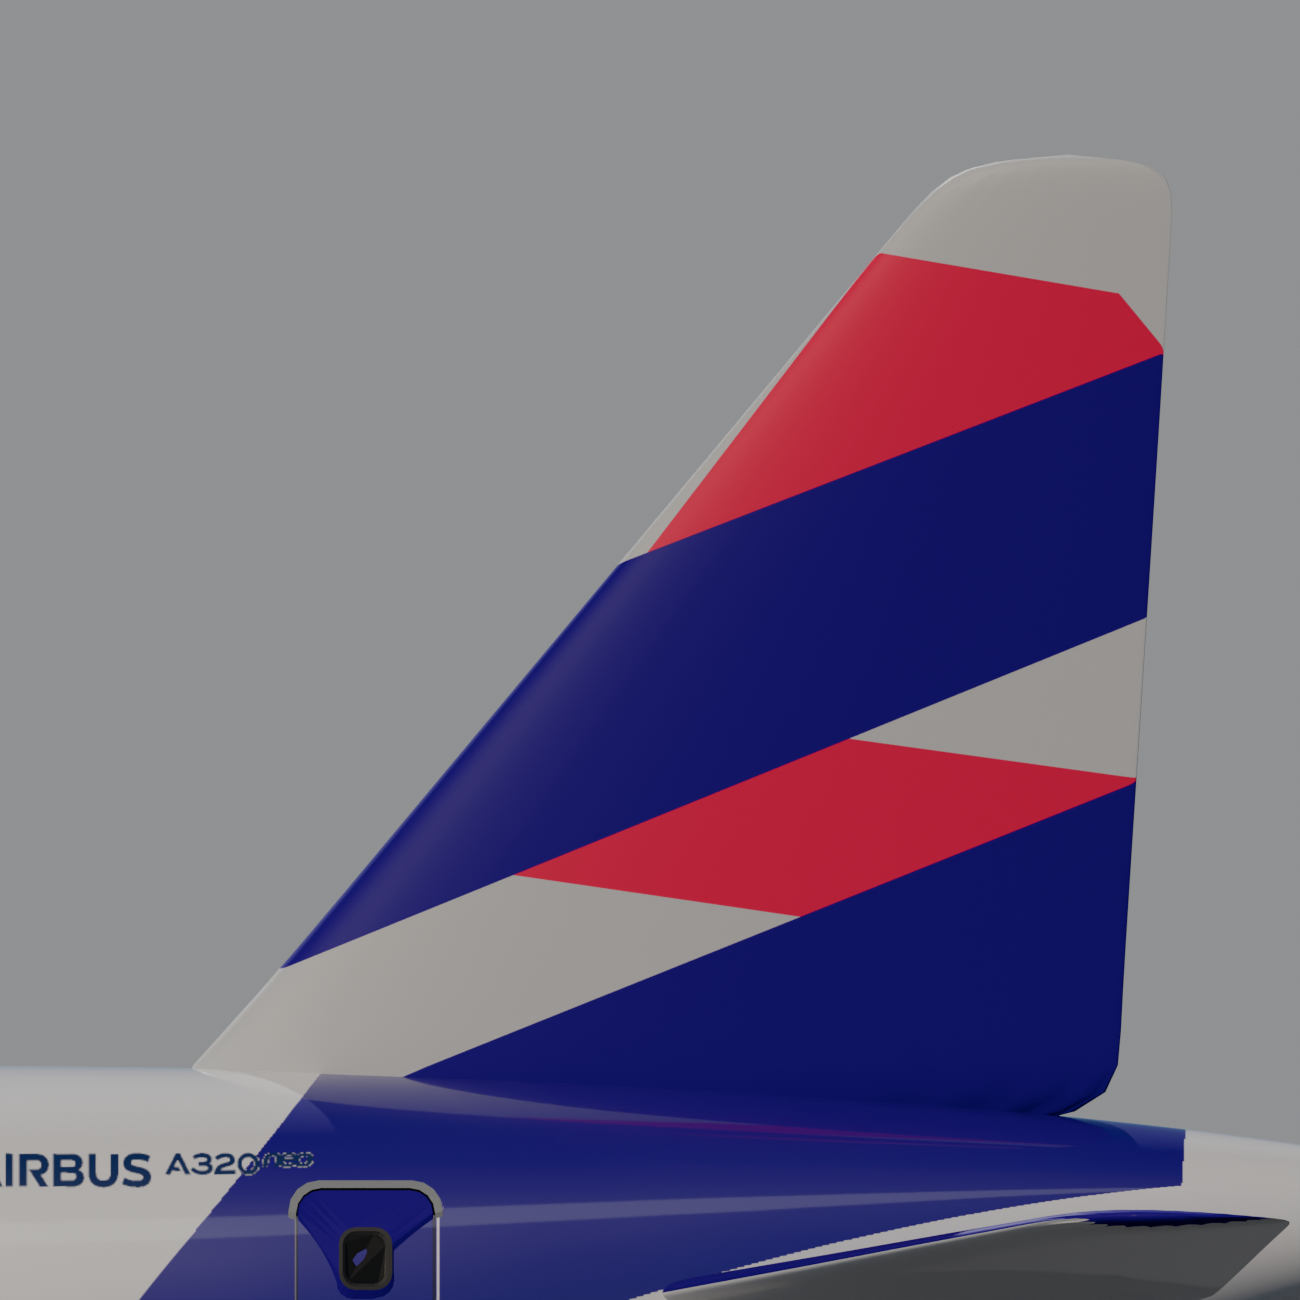
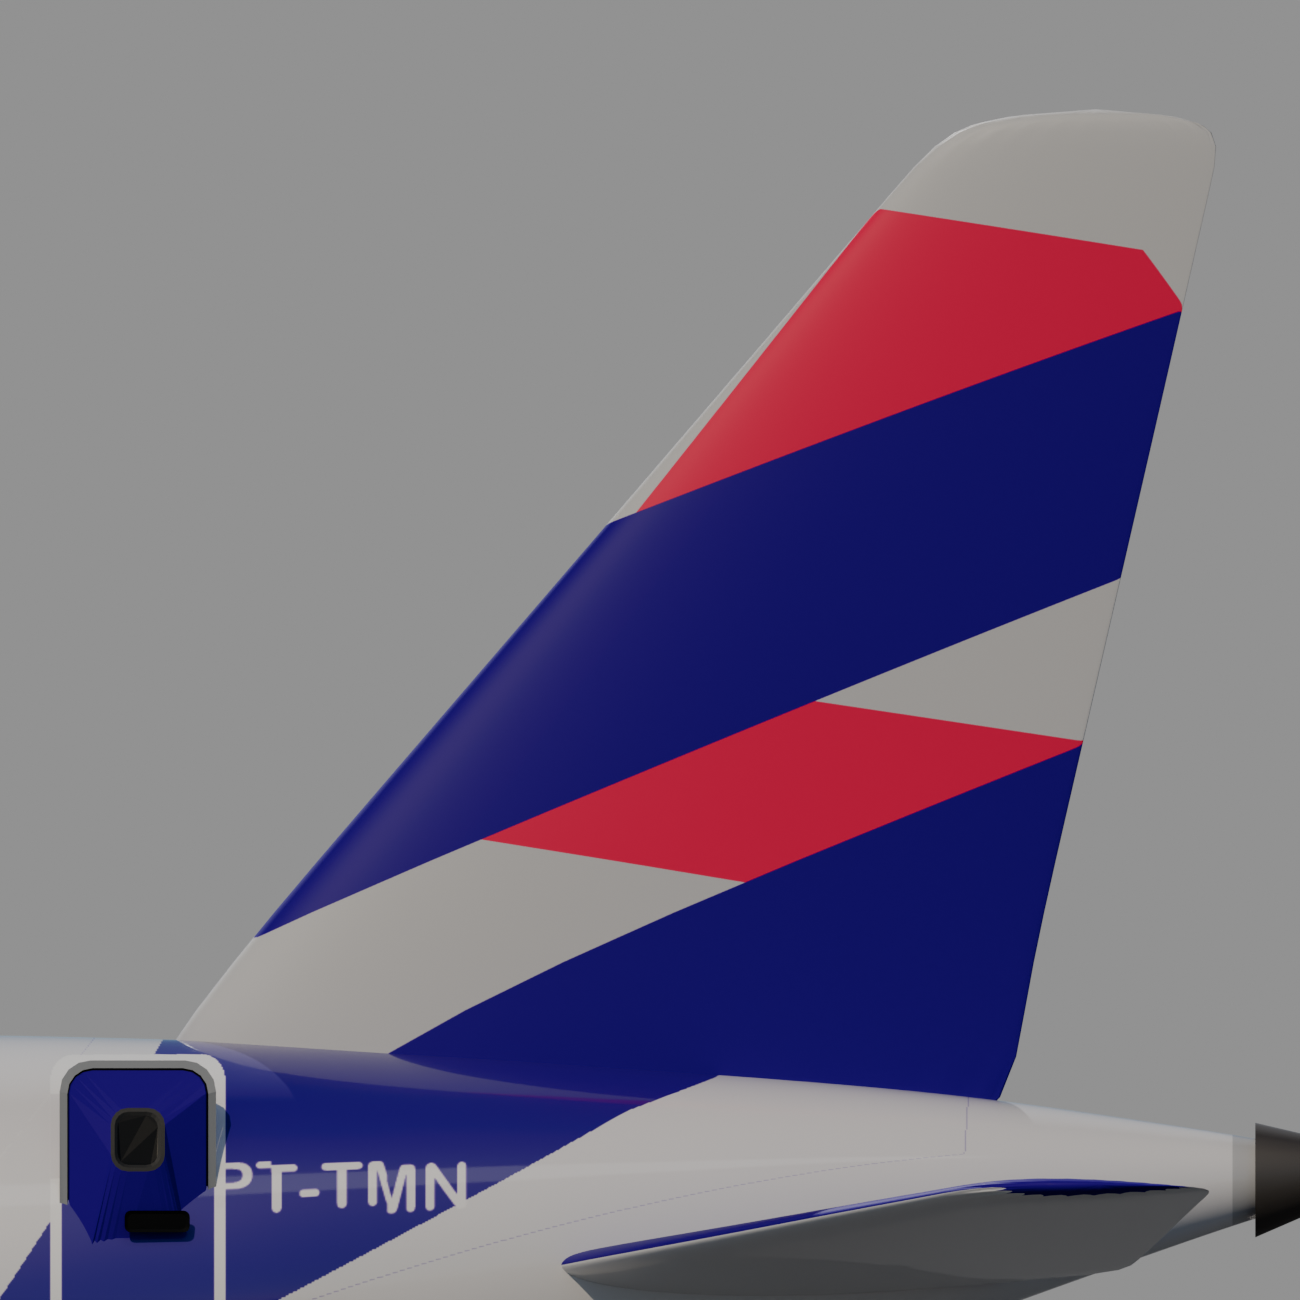
The fin panel gets a generator, and the three stale ones are re-shot
Three `render_fin_ortho.png` sat in the tree showing geometry the fleet no
longer had. They were made ad hoc in the 2026-08-20 sash round — nothing in the
repository produces them, nothing references them — and the ACAP empennage round
of 2026-08-21 moved the fins out from under them with no way to refresh.

REGENERATED RATHER THAN DELETED, for three reasons.

The panel is the only frame the sash can be checked in. The band edges are
specified as CROSSINGS (`spec_*.json -> fin_bandas_2026-08-20`): fractions of
the exposed fin at which each edge cuts the LE, the TE and the root. Checking
one means measuring a length ALONG an edge, which needs an elevation in the same
(x, z) domain the texture is rasterized in. The seven gate angles are perspective
cameras at 90-250 m; CamCauda is the closest and it still foreshortens the fin
and rakes the root. Deleting the panels would delete the evidence for the round
that produced them, three weeks after `0da5329` deleted the other half of that
evidence — the photo comparison sheets, which had to go for licensing.

`spec_77w.json` already cites the 777's copy by name as the model-only panel
that stands in for the sheet it may not ship. Three of the four aircraft that
have this panel were carrying an uncitable version of it.

And staleness is the argument FOR a script, not against the artifact. These went
stale precisely because they had no generator; the merge that staled them is the
[…]

Changed region(s): [[0.0, 0.1538, 1.0, 1.0], [0.1538, 0.7385, 0.1846, 0.7692]]

diff --git a/render_fin_ortho.py b/render_fin_ortho.py
@@ -1,0 +1,170 @@
+#!/usr/bin/env python3
+"""Orthographic elevation of the fin — the frame the sash artwork is judged in.
+
+    /Applications/Blender.app/Contents/MacOS/Blender -b "<aircraft>/<X>.blend" \
+        --python render_fin_ortho.py -- [px] [samples]
+
+Writes `render_fin_ortho.png` next to the .blend. Like `render_gate.py`, the
+camera is built in memory and the master is NEVER saved, so the panel can be
+re-shot while another session edits the aircraft.
+
+------------------------------------------------------------------------------
+WHY THIS EXISTS
+------------------------------------------------------------------------------
+The fin sash is specified as CROSSINGS: fractions of the exposed fin at which
+each band edge cuts the leading edge, the trailing edge and the root (see
+`spec_*.json` -> `fin_bandas_2026-08-20`, and the "per-type fin" section of the
+livery-latam skill). Reading a crossing off a render means measuring a length
+along the LE against the LE's full length — which only works in an elevation of
+the fin, in the same (x, z) domain the texture is rasterized in.
+
+None of the seven canonical gate angles is that. They are perspective cameras
+at 90-250 m aimed at the whole aircraft; CamCauda is the closest and it still
+foreshortens the fin and rakes the root. So the fin panel is a separate shot,
+and `spec_77w.json` already cites the 777's copy by name as the model-only
+evidence for its sash conference.
+
+Three of these panels (A319, A320neo, A321neo) were made by a scratchpad script
+in the 2026-08-20 sash round and committed without it. The ACAP empennage round
+of 2026-08-21 moved two of those fins and raised the doors under all three, and
+there was nothing in the repository to re-shoot them with — so they sat in the
+tree showing geometry the fleet no longer had. That is the whole reason this
+file is here rather than in a scratchpad: the panel is only evidence for as long
+as it can be refreshed by whatever moves the geometry.
+
+------------------------------------------------------------------------------
+THE FRAME
+------------------------------------------------------------------------------
+Orthographic, square, PORT side: the camera sits far out on -Y looking towards
++Y, so world +X (aft) runs to the right and the panel shows `Deriva_Sash_E` —
+the same side as CamPerfil and as the reference photographs the bands were
+measured on.
+
+The frame is derived from the fin's own world bounding box, so every type is
+shot the same way and two types can be laid side by side:
+
+    S  = MARGEM x max(fin span in x, fin span in z)     square, metres
+    c  = centre of the fin bounding box
+
+MARGEM leaves a little air around the tip and the trailing edge and pulls in the
+hull under the root — the fin-root fillet and the écharpe boundary are part of
+what the sash has to line up with, so the junction belongs in the frame.
+
+Nothing here is read from the .blend's own cameras: an elevation has no
+photographic distance to preserve, and the whole point is that the frame follows
+the fin. Move the fin and the panel re-centres on it.
+
+BACKGROUND. The master's world is a sky texture, which tints white paint. The
+panel swaps a flat neutral grey in front of CAMERA rays only (Light Path ->
+Is Camera Ray); every other ray still sees the master's sky, so the lighting is
+the master's lighting and only the backdrop changes. The grey matches the one
+the 2026-08-20 panels were shot against, so old and new sheets compare.
+"""
+import math
+import os
+import sys
+
+import bpy
+from mathutils import Vector
+
+# ---------------------------------------------------------------- constantes
+
+FIN = "Deriva"          # fleet-wide name of the fin mesh
+MARGEM = 1.12           # frame side, x the fin's largest span
+FUNDO = 0.58            # flat backdrop, linear; renders to sRGB 146 under AgX
+SAIDA = "render_fin_ortho.png"
+
+
+def _caixa(ob):
+    return [ob.matrix_world @ Vector(c) for c in ob.bound_box]
+
+
+def enquadrar(scene=None):
+    """Frame the fin: returns (centro, lado) in metres."""
+    scene = scene or bpy.context.scene
+    bpy.context.view_layer.update()      # matrix_world fresca, senao mente
+    fin = bpy.data.objects.get(FIN)
+    if fin is None or fin.type != "MESH":
+        raise RuntimeError("fin mesh '%s' not found in %s"
+                           % (FIN, os.path.basename(bpy.data.filepath)))
+    b = _caixa(fin)
+    x0, x1 = min(p.x for p in b), max(p.x for p in b)
+    z0, z1 = min(p.z for p in b), max(p.z for p in b)
+    y0 = min(p.y for p in b)
+    lado = MARGEM * max(x1 - x0, z1 - z0)
+    centro = Vector(((x0 + x1) / 2.0, y0, (z0 + z1) / 2.0))
+    return centro, lado, (x0, x1, z0, z1)
+
+
+def _fundo_liso(scene):
+    """Flat grey for camera rays; the master's sky still lights the aircraft."""
+    world = scene.world
+    if world is None or not world.use_nodes:
+        return
+    nt = world.node_tree
+    saida = next((n for n in nt.nodes if n.type == "OUTPUT_WORLD"), None)
+    if saida is None or not saida.inputs["Surface"].links:
+        return
+    ceu = saida.inputs["Surface"].links[0].from_socket
+
+    plano = nt.nodes.new("ShaderNodeBackground")
+    plano.inputs["Color"].default_value = (FUNDO, FUNDO, FUNDO, 1.0)
+    plano.inputs["Strength"].default_value = 1.0
+    caminho = nt.nodes.new("ShaderNodeLightPath")
+    mistura = nt.nodes.new("ShaderNodeMixShader")
+    nt.links.new(mistura.inputs["Fac"], caminho.outputs["Is Camera Ray"])
+    nt.links.new(mistura.inputs[1], ceu)             # Fac 0: todo o resto
+    nt.links.new(mistura.inputs[2], plano.outputs["Background"])   # Fac 1: camera
+    nt.links.new(saida.inputs["Surface"], mistura.outputs["Shader"])
+
+
+def renderizar(pasta=None, px=1300, amostras=96, scene=None):
+    scene = scene or bpy.context.scene
+    pasta = pasta or os.path.dirname(os.path.abspath(bpy.data.filepath))
+    centro, lado, cx = enquadrar(scene)
+
+    cam_ob = bpy.data.objects.get("CamFinOrtho")
+    if cam_ob is None or cam_ob.type != "CAMERA":
+        cam_ob = bpy.data.objects.new("CamFinOrtho", bpy.data.cameras.new("CamFinOrtho"))
+        scene.collection.objects.link(cam_ob)
+    cam_ob.parent = None
+    cam = cam_ob.data
+    cam.type = "ORTHO"
+    cam.ortho_scale = lado
+    cam.shift_x = 0.0
+    cam.shift_y = 0.0
+    cam.clip_start = 0.1
+    cam.clip_end = 4000.0
+    cam.dof.use_dof = False
+    # 200 m out on -Y, looking towards +Y with world +Z up: an elevation has no
+    # distance of its own, so the standoff only has to clear the aircraft.
+    cam_ob.location = Vector((centro.x, centro.y - 200.0, centro.z))
+    cam_ob.rotation_euler = (math.pi / 2.0, 0.0, 0.0)
+    for c in list(cam_ob.constraints):
+        cam_ob.constraints.remove(c)
+
+    _fundo_liso(scene)
+
+    scene.camera = cam_ob
+    scene.render.resolution_x = px
+    scene.render.resolution_y = px
+    scene.render.resolution_percentage = 100
+    scene.render.engine = "CYCLES"
+    if hasattr(scene, "cycles"):
+        scene.cycles.samples = amostras
+        scene.cycles.use_denoising = True
+    scene.render.image_settings.file_format = "PNG"
+    scene.render.filepath = os.path.join(pasta, SAIDA)
+
+    print("[fin] %s  fin x %.3f..%.3f  z %.3f..%.3f" %
+          (os.path.basename(bpy.data.filepath), cx[0], cx[1], cx[2], cx[3]))
+    print("[fin] frame %.3f m square, centre (%.3f, %.3f), %d px -> %.4f m/px"
+          % (lado, centro.x, centro.z, px, lado / px))
+    bpy.ops.render.render(write_still=True)
+    print("[fin] %s" % SAIDA)
+
+
+if __name__ == "__main__":
+    argv = sys.argv[sys.argv.index("--") + 1:] if "--" in sys.argv else []
+    renderizar(px=int(argv[0]) if argv else 1300,
+               amostras=int(argv[1]) if len(argv) > 1 else 96)

diff --git a/.claude/skills/livery-latam/SKILL.md b/.claude/skills/livery-latam/SKILL.md
@@ -221,6 +221,24 @@ Anchor the edges by those crossings — fractions of the exposed fin along
 LE/TE/root — and the artwork lands right even if the model's planform taper is
 imperfect (`spec_*.json → fin_bandas_2026-08-20`).
 
+**Check the crossings in an elevation, not in the gate.** A crossing is a length
+measured *along* a fin edge, so it can only be read in an orthographic view of
+the fin, in the same `(x,z)` domain the texture is rasterized in. The seven gate
+cameras are perspective at 90–250 m and CamCauda still foreshortens the root.
+The panel is `render_fin_ortho.py` in the repository root:
+
+```bash
+/Applications/Blender.app/Contents/MacOS/Blender -b "<aircraft>/<MASTER>.blend" \
+    --python render_fin_ortho.py -- 1300 96
+```
+
+It writes `render_fin_ortho.png` beside the master, framed on the `Deriva`
+bounding box, so it re-centres itself when the fin moves. **Re-run it in any
+round that moves the empennage or repaints the fin** — the 2026-08-20 panels
+were shot from a scratchpad, and the ACAP empennage round of 2026-08-21 left
+three of them showing a fin the fleet no longer had, with nothing committed to
+refresh them.
+
 ### Rectifying the photo is what unlocks the measurement
 
 The fin is **flat**, so a photo of it is a homography — and for a telephoto

diff --git a/README.md b/README.md
@@ -262,6 +262,23 @@ Three traps worth carrying to any photo measurement:
   projection.** Measuring the rear wedge by "which pixels are indigo" failed
   repeatedly because the fin is also indigo and covers the hull in side view.
 
+Those band edges are recorded as **crossings** — fractions of the exposed fin at
+which each edge cuts the LE, the TE and the root — so checking one means
+measuring along an edge, which needs an *elevation* of the fin. None of the seven
+gate angles is that. `render_fin_ortho.py` is:
+
+```bash
+/Applications/Blender.app/Contents/MacOS/Blender -b "airbus A320neo/A320neo_LATAM.blend" \
+    --python render_fin_ortho.py -- 1300 96
+```
+
+Orthographic, square, port side, framed on the `Deriva` bounding box, camera
+built at render time and never written into the `.blend` — same rule as the
+gate. It writes `render_fin_ortho.png` next to the master. **Re-run it whenever
+the empennage or the fin artwork moves**: the first three of these panels were
+shot from a scratchpad and left behind by the ACAP empennage round, which is
+the only reason this file exists in the tree instead of a session folder.
+
 ## The sharklet round
 
 The A321ceo build (2026-08) caught a **latent family defect**: LATAM sharklet
